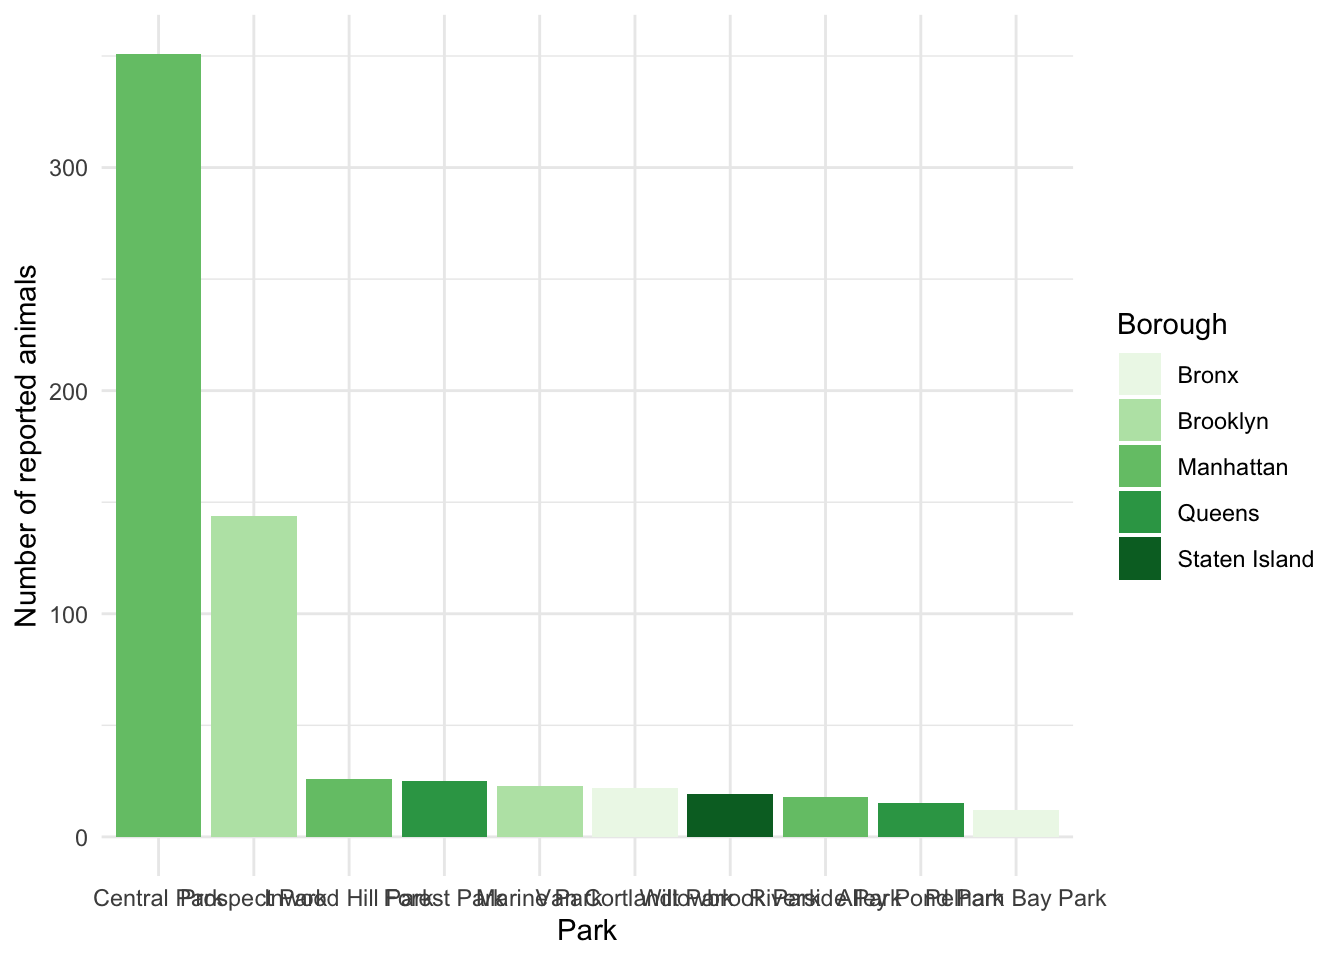
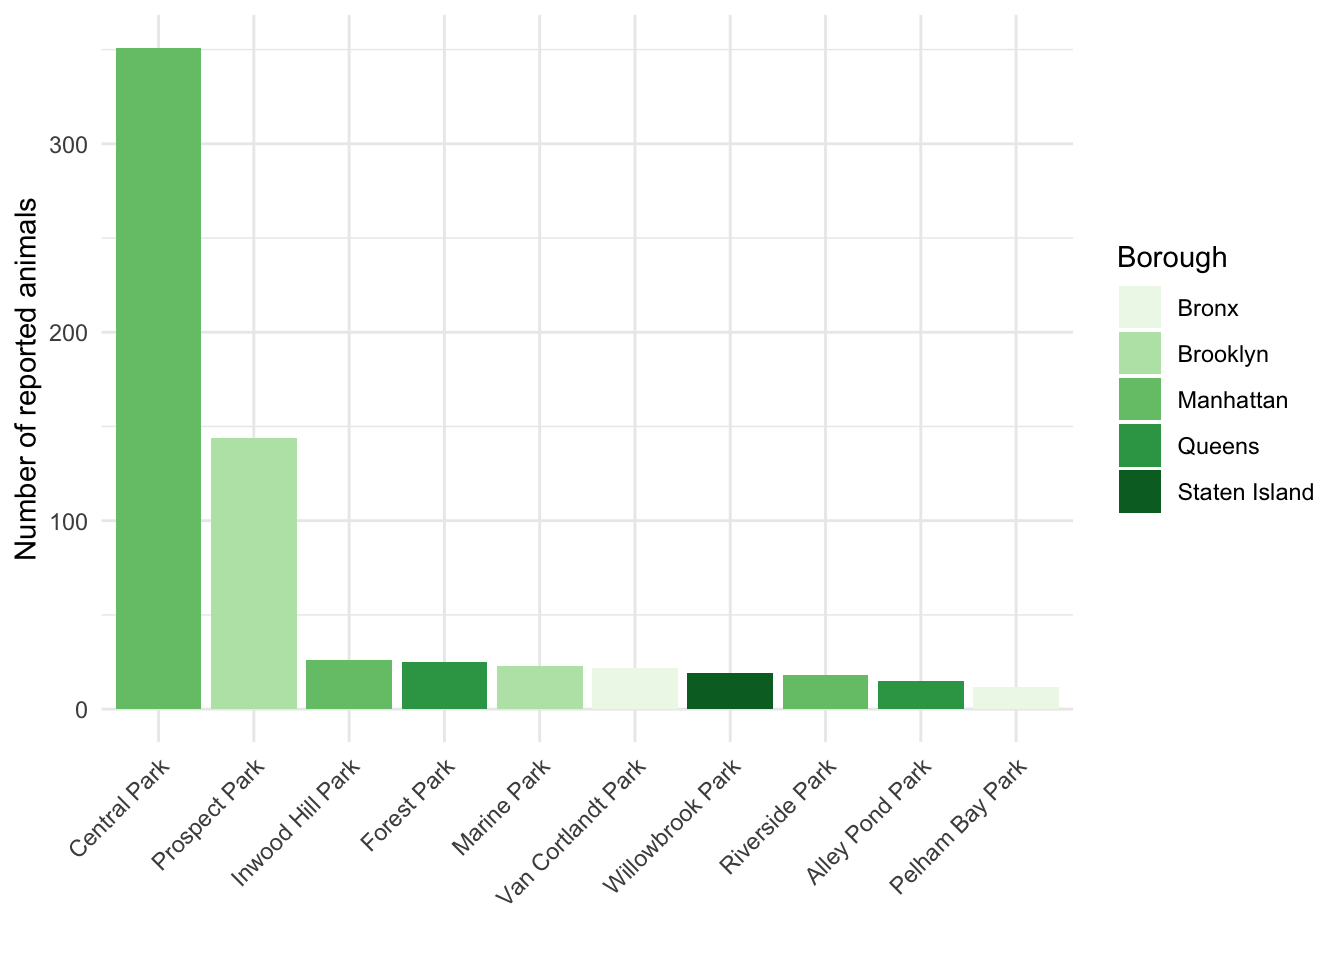
fix table and font size

diff --git a/content/post/2020-06-09-nyc-urban-ranger-animal-response/index.en.html b/content/post/2020-06-09-nyc-urban-ranger-animal-response/index.en.html
@@ -23,10 +23,10 @@ projects: [Other]
 
 
 
-<div id="i-came-across-this-dataset-from-nyc-from-urban-park-ranger-animal-condition-response-source-httpsdata.cityofnewyork.usenvironmenturban-park-ranger-animal-condition-responsefuhs-xmg2.-from-may-2018---june-2019-data-was-collected-on-animal-calls-received-by-the-urban-park-rangers-of-new-york-city.-most-of-these-reports-would-be-associated-with-city-parks-for-animals-in-distress." class="section level2">
-<h2>I came across this dataset from NYC from Urban Park Ranger Animal Condition Response [source] (<a href="https://data.cityofnewyork.us/Environment/Urban-Park-Ranger-Animal-Condition-Response/fuhs-xmg2" class="uri">https://data.cityofnewyork.us/Environment/Urban-Park-Ranger-Animal-Condition-Response/fuhs-xmg2</a>). From May 2018 - June 2019, data was collected on animal calls received by the Urban Park Rangers of New York City. Most of these reports would be associated with city parks for animals in distress.</h2>
-<div id="lets-take-a-look-at-the-data-and-see-what-types-of-animals-have-appeared-in-nyc" class="section level3">
-<h3>Let’s take a look at the data and see what types of animals have appeared in NYC!</h3>
+<div id="i-came-across-this-dataset-from-nyc-from-urban-park-ranger-animal-condition-response-source-httpsdata.cityofnewyork.usenvironmenturban-park-ranger-animal-condition-responsefuhs-xmg2.-from-may-2018---june-2019-data-was-collected-on-animal-calls-received-by-the-urban-park-rangers-of-new-york-city.-most-of-these-reports-would-be-associated-with-city-parks-for-animals-in-distress." class="section level4">
+<h4>I came across this dataset from NYC from Urban Park Ranger Animal Condition Response [source] (<a href="https://data.cityofnewyork.us/Environment/Urban-Park-Ranger-Animal-Condition-Response/fuhs-xmg2" class="uri">https://data.cityofnewyork.us/Environment/Urban-Park-Ranger-Animal-Condition-Response/fuhs-xmg2</a>). From May 2018 - June 2019, data was collected on animal calls received by the Urban Park Rangers of New York City. Most of these reports would be associated with city parks for animals in distress.</h4>
+<div id="lets-take-a-look-at-the-data-and-see-what-types-of-animals-have-appeared-in-nyc" class="section level5">
+<h5>Let’s take a look at the data and see what types of animals have appeared in NYC!</h5>
 <pre class="r"><code>data_raw &lt;- read.csv(&quot;Urban_Park_Ranger_Animal_Condition_Response.csv&quot;)
 
 #Animal by species
@@ -48,8 +48,8 @@ head(data_raw %&gt;% count(Animal.Class, sort =T))</code></pre>
 ## 5            Small Mammals-non RVS  49
 ## 6 Terrestrial Reptile or Amphibian  21</code></pre>
 </div>
-<div id="clearly-a-lot-of-calls-for-raccoons-unfortunately-this-dataset-does-not-include-the-reason-for-the-call-besides-healthy-unhealthy-dead-on-arrival-doa.-there-is-some-cleaning-needed-when-looking-at-the-classifications.-looking-at-marine-reptiles-shows-theyre-actually-terrestrial-reptiles.-lets-do-some-cleaning." class="section level3">
-<h3>Clearly, a lot of calls for raccoons! Unfortunately, this dataset does not include the reason for the call besides <code>healthy, unhealthy, dead on arrival (DOA)</code>. There is some cleaning needed when looking at the classifications. Looking at <code>$Marine Reptiles</code> shows they’re actually <code>$Terrestrial Reptiles</code>. Let’s do some cleaning.</h3>
+<div id="clearly-a-lot-of-calls-for-raccoons-unfortunately-this-dataset-does-not-include-the-reason-for-the-call-besides-healthy-unhealthy-dead-on-arrival-doa.-there-is-some-cleaning-needed-when-looking-at-the-classifications.-looking-at-marine-reptiles-shows-theyre-actually-terrestrial-reptiles.-lets-do-some-cleaning." class="section level5">
+<h5>Clearly, a lot of calls for raccoons! Unfortunately, this dataset does not include the reason for the call besides <code>healthy, unhealthy, dead on arrival (DOA)</code>. There is some cleaning needed when looking at the classifications. Looking at <code>$Marine Reptiles</code> shows they’re actually <code>$Terrestrial Reptiles</code>. Let’s do some cleaning.</h5>
 <pre class="r"><code>data_clean &lt;- data_raw %&gt;%
   mutate(
     Species.Description = str_to_lower(Species.Description), #removes capitializations
@@ -70,8 +70,8 @@ head(data_raw %&gt;% count(Animal.Class, sort =T))</code></pre>
 
 write.csv(data_clean, &quot;UrbanRangerDataClean.csv&quot;)</code></pre>
 </div>
-<div id="overall-this-is-much-better-now-and-solved-some-issues.-i-consolidated-the-animal.class-category-to-make-further-analysis-easier-but-recognize-this-may-have-over-simplified-some-details.-there-are-some-cases-when-some-species-are-labelled-different-ways.-well-leave-this-for-now." class="section level3">
-<h3>Overall, this is much better now and solved some issues. I consolidated the <code>Animal.Class</code> category to make further analysis easier, but recognize this may have over simplified some details. There are some cases when some species are labelled different ways. We’ll leave this for now.</h3>
+<div id="overall-this-is-much-better-now-and-solved-some-issues.-i-consolidated-the-animal.class-category-to-make-further-analysis-easier-but-recognize-this-may-have-over-simplified-some-details.-there-are-some-cases-when-some-species-are-labelled-different-ways.-well-leave-this-for-now." class="section level5">
+<h5>Overall, this is much better now and solved some issues. I consolidated the <code>Animal.Class</code> category to make further analysis easier, but recognize this may have over simplified some details. There are some cases when some species are labelled different ways. We’ll leave this for now.</h5>
 <pre class="r"><code>#Grouping by species for top 20 most abundant species
 species &lt;- data_clean %&gt;%
   count(Species.Description, sort = TRUE) %&gt;%
@@ -87,11 +87,11 @@ plot &lt;- ggplot(data = species, aes(x= reorder(Species.Description, n), y = n)
 plot</code></pre>
 <p><img src="/post/2020-06-09-nyc-urban-ranger-animal-response/index.en_files/figure-html/unnamed-chunk-4-1.png" width="672" /></p>
 </div>
-<div id="funny-to-see-that-chickens-are-the-fourth-most-reported-animal-in-this-dataset" class="section level3">
-<h3>Funny to see that chickens are the fourth most reported animal in this dataset!</h3>
+<div id="funny-to-see-that-chickens-are-the-fourth-most-reported-animal-in-this-dataset" class="section level5">
+<h5>Funny to see that chickens are the fourth most reported animal in this dataset!</h5>
 </div>
-<div id="with-such-a-high-abundance-of-calls-for-raccoons-im-going-to-remove-them-from-the-next-graphic.-this-way-we-can-understand-how-the-rest-of-the-species-distributions-look.-looking-at-how-the-animal.class-reported-across-the-boroughs." class="section level3">
-<h3>With such a high abundance of calls for raccoons, I’m going to remove them from the next graphic. This way we can understand how the rest of the species distributions look. Looking at how the <code>Animal.Class</code> reported across the boroughs.</h3>
+<div id="with-such-a-high-abundance-of-calls-for-raccoons-im-going-to-remove-them-from-the-next-graphic.-this-way-we-can-understand-how-the-rest-of-the-species-distributions-look.-looking-at-how-the-animal.class-reported-across-the-boroughs." class="section level5">
+<h5>With such a high abundance of calls for raccoons, I’m going to remove them from the next graphic. This way we can understand how the rest of the species distributions look. Looking at how the <code>Animal.Class</code> reported across the boroughs.</h5>
 <pre class="r"><code>plot2 &lt;- data_clean %&gt;%
   filter(Species.Description != &quot;raccoon&quot;) %&gt;%
   group_by(Borough) %&gt;%
@@ -107,17 +107,18 @@ plot</code></pre>
 plot2</code></pre>
 <p><img src="/post/2020-06-09-nyc-urban-ranger-animal-response/index.en_files/figure-html/unnamed-chunk-5-1.png" width="672" /></p>
 </div>
-<div id="now-that-we-know-that-there-are-differences-across-the-boroughs-lets-take-a-look-at-the-most-popular-places-animals-are-reported.-not-surprising-this-dataset-falls-within-the-nyc-parks-most-often." class="section level3">
-<h3>Now that we know that there are differences across the boroughs, let’s take a look at the most popular places animals are reported. Not surprising, this dataset falls within the NYC Parks most often.</h3>
+<div id="now-that-we-know-that-there-are-differences-across-the-boroughs-lets-take-a-look-at-the-most-popular-places-animals-are-reported.-not-surprising-this-dataset-falls-within-the-nyc-parks-most-often." class="section level5">
+<h5>Now that we know that there are differences across the boroughs, let’s take a look at the most popular places animals are reported. Not surprising, this dataset falls within the NYC Parks most often.</h5>
 <pre class="r"><code>plot3 &lt;- data_clean %&gt;% 
   count(Property, Borough, sort = TRUE) %&gt;%
   top_n(10, n) %&gt;%
   ggplot(aes(x=reorder(Property, -n), y=n)) +
   geom_bar(aes(fill = Borough), stat = &quot;identity&quot;)+
   scale_fill_brewer(palette = &quot;Greens&quot;)+
-  xlab(&quot;Park&quot;) +
+  xlab(&quot;&quot;)+
   ylab(&quot;Number of reported animals&quot;)+
-  theme_minimal()
+  theme_minimal()+
+  theme(axis.text.x = element_text(angle = 45, hjust = 1)) #rotates labels 45 degrees and adjust down to not overlap axis
 
 plot3</code></pre>
 <p><img src="/post/2020-06-09-nyc-urban-ranger-animal-response/index.en_files/figure-html/unnamed-chunk-6-1.png" width="672" /></p>
